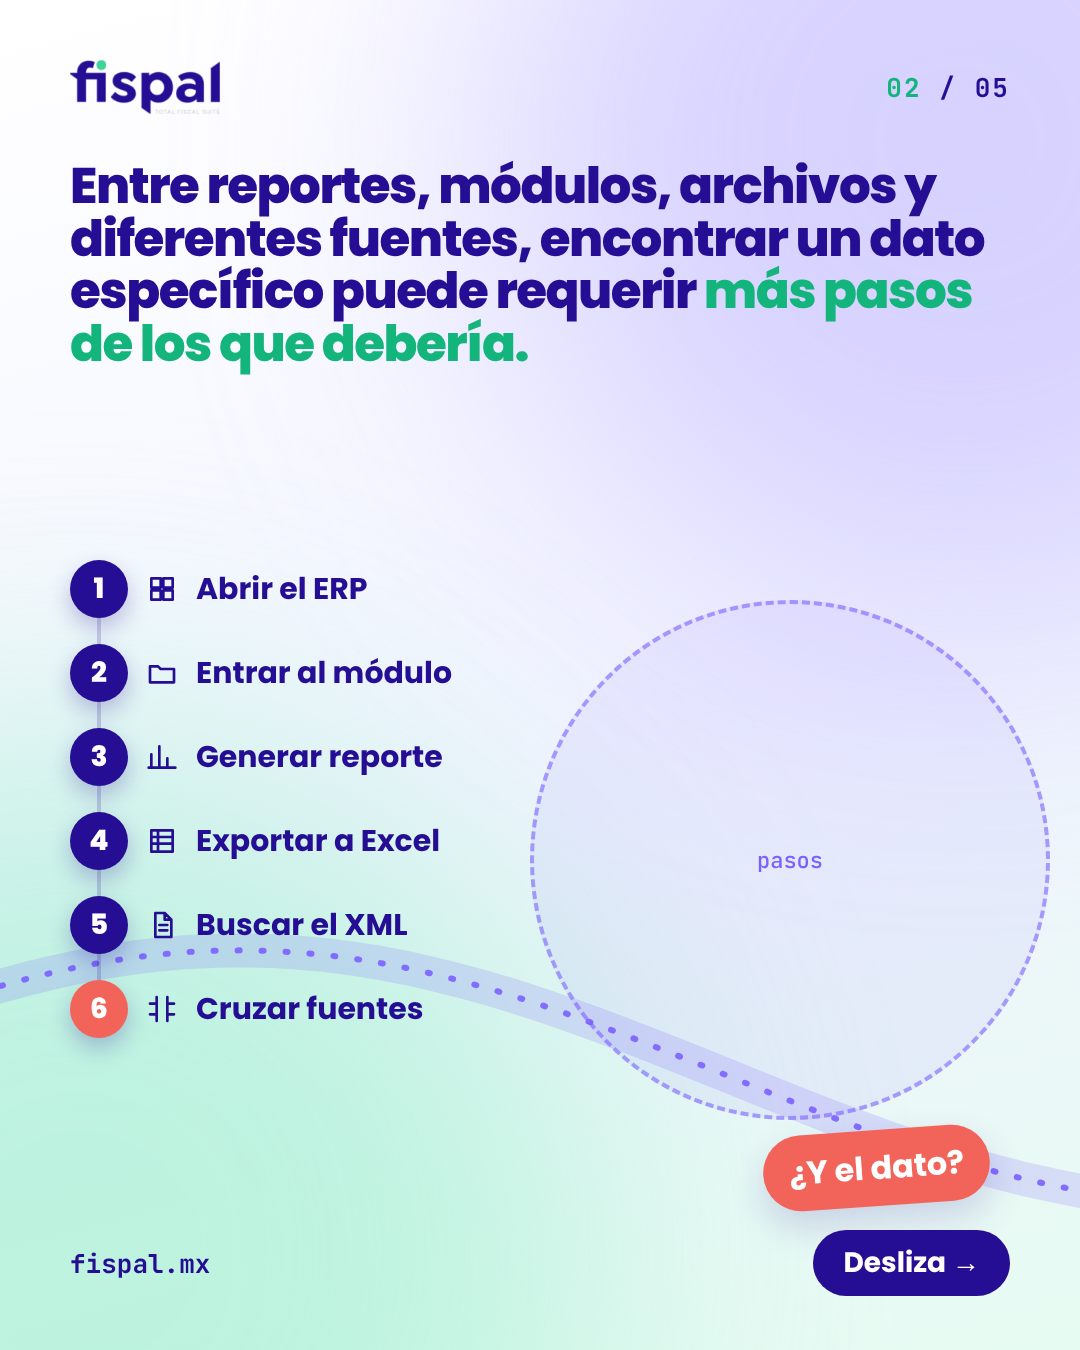
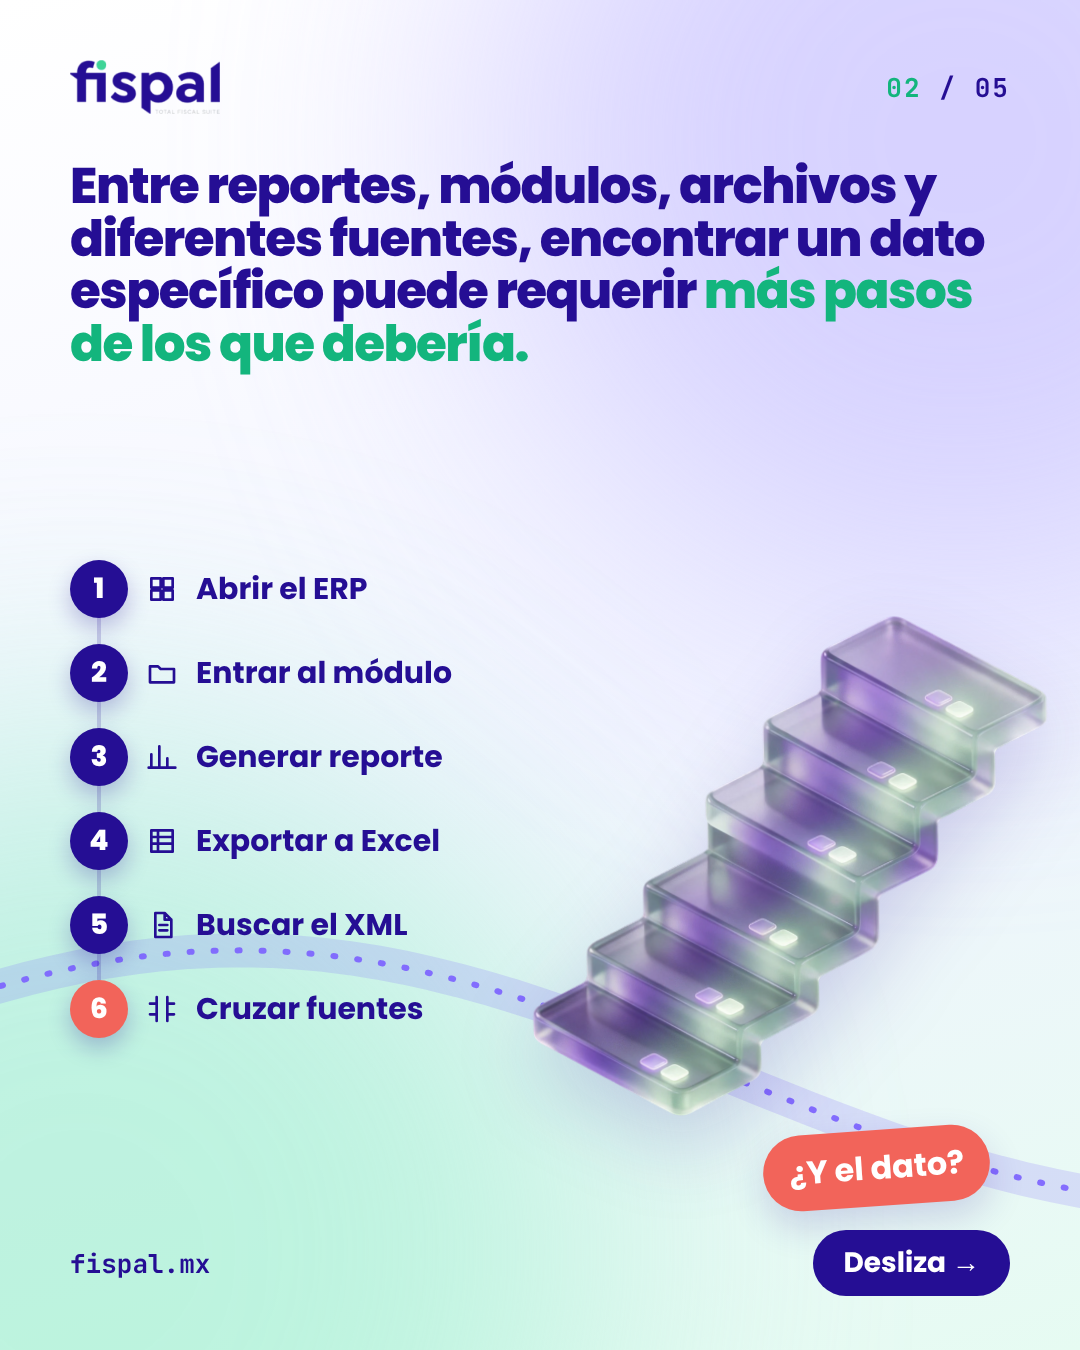
Fispal carrusel 2: new transparent glass illustrations
Claude-Session: https://claude.ai/code/session_01NghCctPQaKXziVeL1FGG6n

Changed region(s): [[0.4889, 0.4356, 0.9778, 0.84], [0.9472, 0.6844, 0.9778, 0.7156], [0.4889, 0.5911, 0.5194, 0.6222]]

diff --git a/editor/src/carruseles/C2Erp.tsx b/editor/src/carruseles/C2Erp.tsx
@@ -115,7 +115,7 @@ const S4: React.FC = () => (
     <div style={{ position: "absolute", left: 80, right: 80, top: 160, textAlign: "center" }}>
       <Title t={t} size={54} parts={[{ hl: "Fispal" }, " concentra tu información fiscal y permite consultarla utilizando diferentes criterios y filtros."]} />
     </div>
-    <Glass3D name="embudo" x={540} y={800} size={500} />
+    <Glass3D name="embudo" x={540} y={790} size={640} />
     {FILTERS.map(([k, x, y], i) => (
       <Pill key={k} bg={i % 2 ? C.purple : "#fff"} color={i % 2 ? "#fff" : "#131313"} style={{ left: x, top: y, transform: `rotate(${i % 2 ? 4 : -4}deg)` }}>
         <Icon d={ICX.filter} size={24} color={i % 2 ? "#fff" : C.purple} />
